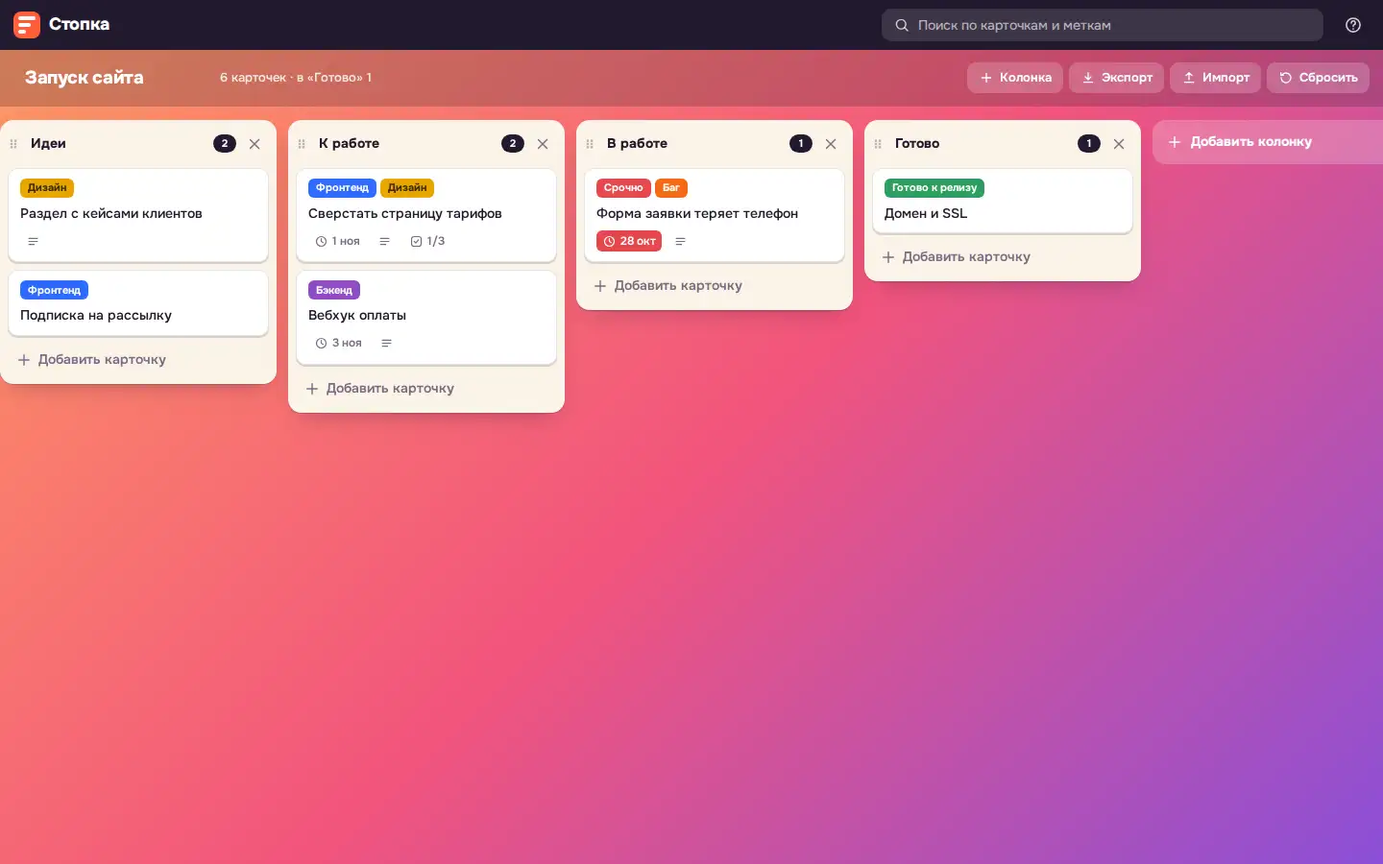
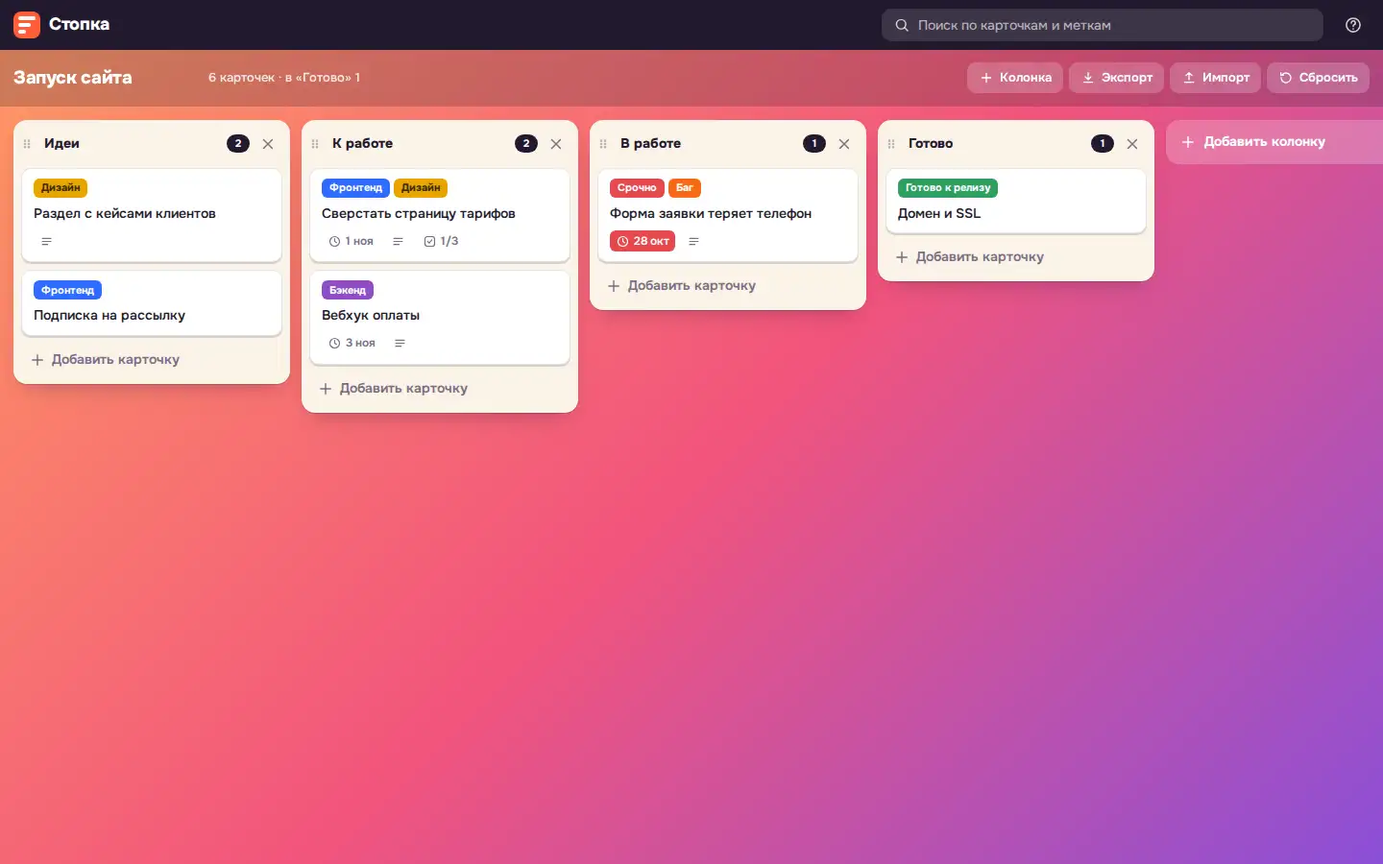
Sync demo frames from onpress.pro

diff --git a/demos/sheets/style.css b/demos/sheets/style.css
@@ -5,14 +5,14 @@ body:has(.demo-sh){margin:0;padding:0;overflow:hidden;background:#f6f7f5}
 .demo-sh,.demo-sh__menu,.demo-sh__ac,.demo-sh__toast,.demo-sh__modal{--sh-bg:#15191a;--sh-chrome:#1d2223;--sh-chrome2:#252b2c;--sh-line:#2a3133;--sh-line2:#3a4345;--sh-text:#e3e8e5;--sh-muted:#93a09a;--sh-head:#1b2021;--sh-head-text:#98a59f;--sh-accent:#2fbf84;--sh-accent-ink:#06261a;--sh-accent-soft:rgba(47,191,132,.14);--sh-accent-head:#1e3a2f;--sh-accent-head-text:#7fe0b4;--sh-err:#ff6b6b;--sh-shadow:0 1px 2px rgba(0,0,0,.4),0 16px 40px -8px rgba(0,0,0,.6);--sh-hover:rgba(227,232,229,.07);--sh-press:rgba(227,232,229,.12)}
 body:has(.demo-sh){background:#15191a}
 }
-.demo-sh{position:fixed;inset:0;z-index:2147480000;display:flex;flex-direction:column;background:var(--sh-chrome);font-size:13px;line-height:1.4;text-align:left;letter-spacing:0}
+.demo-sh{position:fixed;inset:0;margin:0;border-radius:0;overflow:hidden;z-index:2147480000;display:flex;flex-direction:column;background:var(--sh-chrome);font-size:13px;line-height:1.4;text-align:left;letter-spacing:0}
 .demo-sh *,.demo-sh *::before,.demo-sh *::after{box-sizing:border-box}
 .demo-sh svg{width:20px;height:20px;fill:currentColor;flex:none}
 .demo-sh__appbar{display:flex;align-items:center;gap:10px;height:48px;padding:0 12px 0 6px;flex:none;background:var(--sh-chrome)}
-.demo-sh__back{display:inline-flex;align-items:center;justify-content:center;width:36px;height:36px;border-radius:50%;color:var(--sh-muted);text-decoration:none;transition:background .15s,color .15s}
+.demo-sh__back{display:inline-flex;align-items:center;justify-content:center;width:36px;height:36px;border-radius:3px;color:var(--sh-muted);text-decoration:none;transition:background .15s,color .15s}
 .demo-sh__back:hover{background:var(--sh-hover);color:var(--sh-text)}
 .demo-sh__back:focus-visible{outline:2px solid var(--sh-accent);outline-offset:1px}
-.demo-sh__logo{display:inline-flex;width:30px;height:30px;border-radius:7px;background:var(--sh-accent);color:var(--sh-accent-ink);align-items:center;justify-content:center}
+.demo-sh__logo{display:inline-flex;width:30px;height:30px;border-radius:3px;background:var(--sh-accent);color:var(--sh-accent-ink);align-items:center;justify-content:center}
 .demo-sh__logo svg,.demo-sh-intro__mark svg{fill:none;stroke:currentColor;stroke-width:2;stroke-linejoin:round;width:20px;height:20px}
 .demo-sh__brand{font-size:17px;font-weight:500;color:var(--sh-text)}
 .demo-sh__tag{font-size:12px;color:var(--sh-muted);white-space:nowrap;overflow:hidden;text-overflow:ellipsis}
@@ -20,12 +20,12 @@ body:has(.demo-sh){background:#15191a}
 .demo-sh__state{position:absolute;inset:0;display:flex;flex-direction:column;align-items:center;justify-content:center;gap:14px;padding:24px;text-align:center;color:var(--sh-muted);font-size:14px;background:var(--sh-bg)}
 .demo-sh__state-text{margin:0;max-width:420px;line-height:1.5}
 .demo-sh__spinner{width:30px;height:30px;border-radius:50%;border:3px solid var(--sh-accent-soft);border-top-color:var(--sh-accent);animation:demo-sh-spin .8s linear infinite}
-.demo-sh__retry{appearance:none;border:0;border-radius:6px;padding:8px 16px;background:var(--sh-accent);color:var(--sh-accent-ink);font:500 14px var(--sh-font);cursor:pointer}
+.demo-sh__retry{appearance:none;border:0;border-radius:3px;padding:8px 16px;background:var(--sh-accent);color:var(--sh-accent-ink);font:500 14px var(--sh-font);cursor:pointer}
 @keyframes demo-sh-spin{to{transform:rotate(360deg)}}
 .demo-sh__app{position:relative;flex:1;min-height:0;display:flex;flex-direction:column}
-.demo-sh__toolbar{display:flex;align-items:center;gap:2px;height:40px;margin:0 8px 6px;padding:0 6px;border-radius:20px;background:var(--sh-chrome2);flex:none;overflow-x:auto;overflow-y:hidden;scrollbar-width:none}
+.demo-sh__toolbar{display:flex;align-items:center;gap:2px;height:40px;margin:0;padding:0 8px;border-radius:0;background:var(--sh-chrome);border-top:1px solid var(--sh-line);flex:none;overflow-x:auto;overflow-y:hidden;scrollbar-width:none}
 .demo-sh__toolbar::-webkit-scrollbar{display:none}
-.demo-sh__btn{appearance:none;position:relative;display:inline-flex;align-items:center;justify-content:center;gap:6px;min-width:30px;height:30px;padding:0 5px;border:0;border-radius:6px;background:transparent;color:var(--sh-text);font:500 13px var(--sh-font);cursor:pointer;flex:none;transition:background .12s,color .12s}
+.demo-sh__btn{appearance:none;position:relative;display:inline-flex;align-items:center;justify-content:center;gap:6px;min-width:30px;height:30px;padding:0 5px;border:0;border-radius:3px;background:transparent;color:var(--sh-text);font:500 13px var(--sh-font);cursor:pointer;flex:none;transition:background .12s,color .12s}
 .demo-sh__btn svg{width:19px;height:19px}
 .demo-sh__btn:hover{background:var(--sh-hover)}
 .demo-sh__btn:active{background:var(--sh-press)}
@@ -40,10 +40,10 @@ body:has(.demo-sh){background:#15191a}
 .demo-sh__bar{display:block;width:17px;height:4px;margin-top:-1px;border-radius:1px;border:1px solid var(--sh-line2)}
 .demo-sh__sep{width:1px;height:20px;margin:0 5px;background:var(--sh-line2);flex:none}
 .demo-sh__grow{flex:1;min-width:8px}
-.demo-sh__select{position:relative;display:inline-flex;align-items:center;height:30px;border-radius:6px;flex:none}
+.demo-sh__select{position:relative;display:inline-flex;align-items:center;height:30px;border-radius:3px;flex:none}
 .demo-sh__select:hover{background:var(--sh-hover)}
 .demo-sh__select select{appearance:none;-webkit-appearance:none;height:30px;padding:0 24px 0 8px;border:0;background:transparent;color:var(--sh-text);font:500 13px var(--sh-font);cursor:pointer;outline:none}
-.demo-sh__select select:focus-visible{outline:2px solid var(--sh-accent);border-radius:6px}
+.demo-sh__select select:focus-visible{outline:2px solid var(--sh-accent);border-radius:3px}
 .demo-sh__select select option{background:var(--sh-bg);color:var(--sh-text)}
 .demo-sh__select svg{position:absolute;right:4px;width:16px;height:16px;pointer-events:none;color:var(--sh-muted)}
 .demo-sh__fbar{display:flex;align-items:center;height:32px;flex:none;background:var(--sh-bg);border-top:1px solid var(--sh-line);border-bottom:1px solid var(--sh-line)}
@@ -54,6 +54,11 @@ body:has(.demo-sh){background:#15191a}
 .demo-sh__formula::placeholder{color:var(--sh-muted);opacity:.7}
 .demo-sh__grid{position:relative;flex:1;min-height:0;overflow:auto;background:var(--sh-bg);outline:none;overscroll-behavior:contain;-webkit-user-select:none;user-select:none;-webkit-tap-highlight-color:transparent}
 .demo-sh__grid--rz{cursor:col-resize}
+.demo-sh__grid::-webkit-scrollbar{width:12px;height:12px;background:var(--sh-chrome)}
+.demo-sh__grid::-webkit-scrollbar-thumb{background:var(--sh-line2);border:3px solid var(--sh-chrome);border-radius:0}
+.demo-sh__grid::-webkit-scrollbar-thumb:hover{background:var(--sh-muted)}
+.demo-sh__grid::-webkit-scrollbar-corner{background:var(--sh-chrome)}
+.demo-sh__grid::-webkit-scrollbar-button{display:none}
 .demo-sh__canvas{position:relative}
 .demo-sh__colhead{position:sticky;top:0;z-index:4;display:flex;height:28px}
 .demo-sh__corner{position:sticky;left:0;z-index:5;flex:none;width:52px;height:28px;background:var(--sh-head);border-right:1px solid var(--sh-line2);border-bottom:1px solid var(--sh-line2);cursor:pointer}
@@ -95,28 +100,28 @@ body:has(.demo-sh){background:#15191a}
 .demo-sh__editor--on{display:block}
 .demo-sh__app--editing .demo-sh__active{opacity:0}
 .demo-sh__tabs{display:flex;align-items:center;gap:4px;height:38px;padding:0 8px;flex:none;background:var(--sh-chrome);border-top:1px solid var(--sh-line)}
-.demo-sh__tabadd{appearance:none;display:inline-flex;align-items:center;justify-content:center;width:30px;height:30px;border:0;border-radius:50%;background:transparent;color:var(--sh-muted);cursor:pointer;flex:none}
+.demo-sh__tabadd{appearance:none;display:inline-flex;align-items:center;justify-content:center;width:30px;height:30px;border:0;border-radius:3px;background:transparent;color:var(--sh-muted);cursor:pointer;flex:none}
 .demo-sh__tabadd:hover{background:var(--sh-hover);color:var(--sh-text)}
 .demo-sh__tabadd:focus-visible{outline:2px solid var(--sh-accent)}
 .demo-sh__tablist{display:flex;align-items:flex-end;gap:2px;height:100%;min-width:0;overflow-x:auto;scrollbar-width:none}
 .demo-sh__tablist::-webkit-scrollbar{display:none}
-.demo-sh__tab{display:inline-flex;align-items:center;gap:2px;height:31px;padding:0 12px;border-radius:0 0 8px 8px;color:var(--sh-muted);font-weight:500;white-space:nowrap;cursor:pointer;flex:none;transition:background .12s,color .12s;user-select:none}
+.demo-sh__tab{display:inline-flex;align-items:center;gap:2px;height:31px;padding:0 12px;border-radius:0;color:var(--sh-muted);font-weight:500;white-space:nowrap;cursor:pointer;flex:none;transition:background .12s,color .12s;user-select:none}
 .demo-sh__tab:hover{background:var(--sh-hover);color:var(--sh-text)}
 .demo-sh__tab--on{background:var(--sh-bg);color:var(--sh-accent-head-text);box-shadow:inset 0 -3px 0 var(--sh-accent),0 1px 2px rgba(0,0,0,.08);padding-right:4px;margin-top:-1px}
 .demo-sh__tab--on:hover{background:var(--sh-bg)}
-.demo-sh__tabmore{appearance:none;display:inline-flex;align-items:center;justify-content:center;width:22px;height:22px;padding:0;border:0;border-radius:4px;background:transparent;color:inherit;cursor:pointer}
+.demo-sh__tabmore{appearance:none;display:inline-flex;align-items:center;justify-content:center;width:22px;height:22px;padding:0;border:0;border-radius:2px;background:transparent;color:inherit;cursor:pointer}
 .demo-sh__tabmore:hover{background:var(--sh-hover)}
 .demo-sh__tabmore svg{width:18px;height:18px}
-.demo-sh__tabinput{width:140px;height:24px;padding:0 6px;border:2px solid var(--sh-accent);border-radius:4px;background:var(--sh-bg);color:var(--sh-text);font:500 13px var(--sh-font);outline:none}
+.demo-sh__tabinput{width:140px;height:24px;padding:0 6px;border:2px solid var(--sh-accent);border-radius:2px;background:var(--sh-bg);color:var(--sh-text);font:500 13px var(--sh-font);outline:none}
 .demo-sh__status{display:flex;align-items:center;justify-content:space-between;gap:16px;height:26px;padding:0 14px;flex:none;background:var(--sh-chrome);border-top:1px solid var(--sh-line);color:var(--sh-muted);font-size:12px;white-space:nowrap;overflow:hidden}
 .demo-sh__info{overflow:hidden;text-overflow:ellipsis}
 .demo-sh__info--err{color:var(--sh-err)}
 .demo-sh__stats{font-variant-numeric:tabular-nums;color:var(--sh-text);white-space:pre}
 .demo-sh__drop{position:absolute;inset:0;z-index:20;display:none;align-items:center;justify-content:center;padding:24px;background:color-mix(in srgb,var(--sh-bg) 80%,transparent);backdrop-filter:blur(2px)}
-.demo-sh__drop-inner{display:flex;flex-direction:column;align-items:center;gap:10px;padding:32px 40px;border:2px dashed var(--sh-accent);border-radius:14px;color:var(--sh-accent-head-text);font-size:15px;font-weight:500;text-align:center}
+.demo-sh__drop-inner{display:flex;flex-direction:column;align-items:center;gap:10px;padding:32px 40px;border:2px dashed var(--sh-accent);border-radius:3px;color:var(--sh-accent-head-text);font-size:15px;font-weight:500;text-align:center}
 .demo-sh__drop-inner svg{width:34px;height:34px}
 .demo-sh__app--drop .demo-sh__drop{display:flex}
-.demo-sh__menu{position:fixed;z-index:2147481000;min-width:220px;max-width:min(320px,calc(100vw - 16px));max-height:calc(100vh - 16px);overflow:auto;padding:6px 0;border-radius:8px;background:var(--sh-bg);color:var(--sh-text);box-shadow:var(--sh-shadow);border:1px solid var(--sh-line);font-family:var(--sh-font);font-size:13px;opacity:0;transform:translateY(-4px) scale(.98);transform-origin:top left;transition:opacity .12s ease-out,transform .12s ease-out}
+.demo-sh__menu{position:fixed;z-index:2147481000;min-width:220px;max-width:min(320px,calc(100vw - 16px));max-height:calc(100vh - 16px);overflow:auto;padding:6px 0;border-radius:3px;background:var(--sh-bg);color:var(--sh-text);box-shadow:var(--sh-shadow);border:1px solid var(--sh-line);font-family:var(--sh-font);font-size:13px;opacity:0;transform:translateY(-4px) scale(.98);transform-origin:top left;transition:opacity .12s ease-out,transform .12s ease-out}
 .demo-sh__menu--in{opacity:1;transform:none}
 .demo-sh__mi{appearance:none;display:flex;align-items:center;justify-content:space-between;gap:20px;width:100%;min-height:32px;padding:6px 16px;border:0;background:transparent;color:inherit;font:inherit;text-align:left;cursor:pointer}
 .demo-sh__mi:hover,.demo-sh__mi:focus-visible{background:var(--sh-hover);outline:none}
@@ -125,27 +130,27 @@ body:has(.demo-sh){background:#15191a}
 .demo-sh__mi--danger{color:var(--sh-err)}
 .demo-sh__mi-sep{height:1px;margin:5px 0;background:var(--sh-line)}
 .demo-sh__pal{display:grid;grid-template-columns:repeat(9,24px);gap:6px;padding:8px 14px 6px}
-.demo-sh__sw{appearance:none;width:24px;height:24px;padding:0;border:0;border-radius:50%;background:var(--sw);cursor:pointer;transition:transform .1s}
+.demo-sh__sw{appearance:none;width:24px;height:24px;padding:0;border:0;border-radius:2px;background:var(--sw);cursor:pointer;transition:transform .1s}
 .demo-sh__sw--fill{background:color-mix(in srgb,var(--sw) 28%,var(--sh-bg));box-shadow:inset 0 0 0 1.5px var(--sw)}
 .demo-sh__sw:hover{transform:scale(1.15)}
 .demo-sh__sw:focus-visible{outline:2px solid var(--sh-text);outline-offset:2px}
-.demo-sh__ac{position:fixed;z-index:2147481000;width:340px;max-width:calc(100vw - 16px);padding:4px 0;border-radius:8px;background:var(--sh-bg);color:var(--sh-text);border:1px solid var(--sh-line);box-shadow:var(--sh-shadow);font-family:var(--sh-font);font-size:13px}
+.demo-sh__ac{position:fixed;z-index:2147481000;width:340px;max-width:calc(100vw - 16px);padding:4px 0;border-radius:3px;background:var(--sh-bg);color:var(--sh-text);border:1px solid var(--sh-line);box-shadow:var(--sh-shadow);font-family:var(--sh-font);font-size:13px}
 .demo-sh__aci{display:grid;grid-template-columns:auto 1fr;column-gap:8px;padding:5px 12px;cursor:pointer}
 .demo-sh__aci b{font:600 13px var(--sh-mono)}
 .demo-sh__acru{justify-self:end;color:var(--sh-muted);font-size:11px}
 .demo-sh__aci small{grid-column:1/-1;color:var(--sh-muted);font-size:12px}
 .demo-sh__aci--on{background:var(--sh-accent-soft)}
 .demo-sh__acsig{margin-top:4px;padding:6px 12px 4px;border-top:1px solid var(--sh-line);color:var(--sh-muted);font:12px var(--sh-mono)}
-.demo-sh__toast{position:fixed;left:50%;bottom:44px;z-index:2147481500;max-width:calc(100vw - 32px);padding:10px 16px;border-radius:6px;background:#1d2420;color:#f1f5f2;font:500 13px var(--sh-font);box-shadow:var(--sh-shadow);transform:translate(-50%,12px);opacity:0;pointer-events:none;transition:opacity .18s,transform .18s}
+.demo-sh__toast{position:fixed;left:50%;bottom:44px;z-index:2147481500;max-width:calc(100vw - 32px);padding:10px 16px;border-radius:3px;background:#1d2420;color:#f1f5f2;font:500 13px var(--sh-font);box-shadow:var(--sh-shadow);transform:translate(-50%,12px);opacity:0;pointer-events:none;transition:opacity .18s,transform .18s}
 .demo-sh__toast--on{opacity:1;transform:translate(-50%,0)}
 .demo-sh__modal{position:fixed;inset:0;z-index:2147481200;display:flex;align-items:center;justify-content:center;padding:16px;background:rgba(10,16,13,.45);opacity:0;transition:opacity .16s}
 .demo-sh__modal--in{opacity:1}
-.demo-sh__dialog{width:min(480px,100%);max-height:calc(100vh - 32px);overflow:auto;padding:22px 24px 18px;border-radius:10px;background:var(--sh-bg);color:var(--sh-text);box-shadow:var(--sh-shadow);font-family:var(--sh-font);font-size:14px;line-height:1.5;transform:translateY(8px) scale(.98);transition:transform .16s ease-out}
+.demo-sh__dialog{width:min(480px,100%);max-height:calc(100vh - 32px);overflow:auto;padding:22px 24px 18px;border-radius:3px;background:var(--sh-bg);color:var(--sh-text);box-shadow:var(--sh-shadow);font-family:var(--sh-font);font-size:14px;line-height:1.5;transform:translateY(8px) scale(.98);transition:transform .16s ease-out}
 .demo-sh__modal--in .demo-sh__dialog{transform:none}
 .demo-sh__dtitle{margin:0 0 10px;font-size:18px;font-weight:600;line-height:1.3}
 .demo-sh__dbody p{margin:0 0 10px;color:var(--sh-muted)}
 .demo-sh__dbtns{display:flex;flex-wrap:wrap;justify-content:flex-end;gap:8px;margin-top:16px}
-.demo-sh__dbtn{appearance:none;height:36px;padding:0 16px;border:1px solid var(--sh-line2);border-radius:6px;background:transparent;color:var(--sh-text);font:500 14px var(--sh-font);cursor:pointer}
+.demo-sh__dbtn{appearance:none;height:36px;padding:0 16px;border:1px solid var(--sh-line2);border-radius:3px;background:transparent;color:var(--sh-text);font:500 14px var(--sh-font);cursor:pointer}
 .demo-sh__dbtn:hover{background:var(--sh-hover)}
 .demo-sh__dbtn:focus-visible{outline:2px solid var(--sh-accent);outline-offset:2px}
 .demo-sh__dbtn--primary{background:var(--sh-accent);border-color:var(--sh-accent);color:var(--sh-accent-ink)}
@@ -155,20 +160,20 @@ body:has(.demo-sh){background:#15191a}
 .demo-sh__keys{width:100%;margin:0 0 12px;border-collapse:collapse;font-size:13px}
 .demo-sh__keys td{padding:5px 0;border-bottom:1px solid var(--sh-line);vertical-align:top}
 .demo-sh__keys td:first-child{width:44%;padding-right:12px}
-.demo-sh__keys kbd{display:inline-block;padding:1px 6px;border:1px solid var(--sh-line2);border-bottom-width:2px;border-radius:4px;background:var(--sh-chrome);font:12px var(--sh-mono);color:var(--sh-text)}
+.demo-sh__keys kbd{display:inline-block;padding:1px 6px;border:1px solid var(--sh-line2);border-bottom-width:2px;border-radius:2px;background:var(--sh-chrome);font:12px var(--sh-mono);color:var(--sh-text)}
 .demo-sh-intro{position:fixed;inset:0;z-index:2147482000;display:flex;align-items:center;justify-content:center;padding:16px;background:rgba(10,16,13,.5);backdrop-filter:blur(3px);opacity:0;pointer-events:none;transition:opacity .2s}
 .demo-sh-intro--on{opacity:1;pointer-events:auto}
 .demo-sh-intro[hidden]{display:none}
-.demo-sh-intro__card{width:min(520px,100%);max-height:calc(100vh - 32px);overflow:auto;padding:28px 28px 22px;border-radius:12px;background:var(--sh-bg);color:var(--sh-text);box-shadow:var(--sh-shadow);border-top:4px solid var(--sh-accent);transform:translateY(10px);transition:transform .22s ease-out}
+.demo-sh-intro__card{width:min(520px,100%);max-height:calc(100vh - 32px);overflow:auto;padding:28px 28px 22px;border-radius:3px;background:var(--sh-bg);color:var(--sh-text);box-shadow:var(--sh-shadow);border-top:4px solid var(--sh-accent);transform:translateY(10px);transition:transform .22s ease-out}
 .demo-sh-intro--on .demo-sh-intro__card{transform:none}
-.demo-sh-intro__mark{display:inline-flex;width:42px;height:42px;margin-bottom:14px;border-radius:10px;background:var(--sh-accent);color:var(--sh-accent-ink);align-items:center;justify-content:center}
+.demo-sh-intro__mark{display:inline-flex;width:42px;height:42px;margin-bottom:14px;border-radius:3px;background:var(--sh-accent);color:var(--sh-accent-ink);align-items:center;justify-content:center}
 .demo-sh-intro__mark svg{width:26px;height:26px}
 .demo-sh-intro__title{margin:0 0 10px;font:600 26px/1.2 var(--sh-font);letter-spacing:-.01em;color:var(--sh-text)}
 .demo-sh-intro__text{color:var(--sh-muted);font-size:15px;line-height:1.55}
 .demo-sh-intro__text p{margin:0 0 10px}
 .demo-sh-intro__text h1,.demo-sh-intro__text h2{display:none}
 .demo-sh-intro__actions{display:flex;justify-content:flex-end;gap:10px;margin-top:20px}
-.demo-sh-intro__btn{appearance:none;display:inline-flex;align-items:center;justify-content:center;height:40px;padding:0 22px;border:1px solid var(--sh-accent);border-radius:6px;background:var(--sh-accent);color:var(--sh-accent-ink);font:500 15px var(--sh-font);text-decoration:none;cursor:pointer;transition:filter .12s,background .12s}
+.demo-sh-intro__btn{appearance:none;display:inline-flex;align-items:center;justify-content:center;height:40px;padding:0 22px;border:1px solid var(--sh-accent);border-radius:3px;background:var(--sh-accent);color:var(--sh-accent-ink);font:500 15px var(--sh-font);text-decoration:none;cursor:pointer;transition:filter .12s,background .12s}
 .demo-sh-intro__btn:hover{filter:brightness(1.08)}
 .demo-sh-intro__btn:focus-visible{outline:2px solid var(--sh-accent);outline-offset:3px}
 .demo-sh-intro__btn--ghost{background:transparent;color:var(--sh-text);border-color:var(--sh-line2)}
@@ -176,7 +181,7 @@ body:has(.demo-sh){background:#15191a}
 @media (max-width:640px){
 .demo-sh__tag{display:none}
 .demo-sh__appbar{height:44px}
-.demo-sh__toolbar{margin:0 6px 6px;border-radius:10px}
+.demo-sh__toolbar{padding:0 4px}
 .demo-sh__btn--label span{display:none}
 .demo-sh__btn--label{padding:0 5px}
 .demo-sh__grow{display:none}

diff --git a/demos/kanban/style.css b/demos/kanban/style.css
@@ -1,5 +1,5 @@
 html.stk-lock,html.stk-lock body{overflow:hidden;overscroll-behavior:none}
-.stk{--ink:#221a2e;--ink-2:#3a2f4a;--paper:#fff8ef;--list:#fbf3e8;--card:#fff;--text:#221a2e;--muted:#7a6d86;--line:rgba(34,26,46,.12);--hard:0 2px 0 rgba(34,26,46,.16);--accent:#ff5c39;--accent-ink:#fff;--focus:#2f6bff;--danger:#d92d20;--board:linear-gradient(135deg,#ff9a62 0%,#f2547d 52%,#8b4fd8 100%);--scrim:rgba(34,26,46,.5);position:fixed;inset:0;z-index:2147483000;display:flex;flex-direction:column;background:var(--board);color:var(--text);font-family:"Onest Variable",Onest,ui-sans-serif,system-ui,-apple-system,"Segoe UI",sans-serif;font-size:14px;line-height:1.4;font-weight:450;letter-spacing:0;-webkit-font-smoothing:antialiased;text-align:left}
+.stk{--ink:#221a2e;--ink-2:#3a2f4a;--paper:#fff8ef;--list:#fbf3e8;--card:#fff;--text:#221a2e;--muted:#7a6d86;--line:rgba(34,26,46,.12);--hard:0 2px 0 rgba(34,26,46,.16);--accent:#ff5c39;--accent-ink:#fff;--focus:#2f6bff;--danger:#d92d20;--board:linear-gradient(135deg,#ff9a62 0%,#f2547d 52%,#8b4fd8 100%);--scrim:rgba(34,26,46,.5);--pad:14px;position:fixed;inset:0;z-index:2147483000;display:flex;flex-direction:column;background:var(--board);color:var(--text);font-family:"Onest Variable",Onest,ui-sans-serif,system-ui,-apple-system,"Segoe UI",sans-serif;font-size:14px;line-height:1.4;font-weight:450;letter-spacing:0;-webkit-font-smoothing:antialiased;text-align:left}
 :where(.stk) *,:where(.stk) *::before,:where(.stk) *::after{box-sizing:border-box;font-family:inherit;letter-spacing:inherit}
 :where(.stk) :where(button,input,select,textarea){font:inherit;color:inherit;margin:0}
 :where(.stk) button{cursor:pointer;-webkit-tap-highlight-color:transparent}
@@ -9,7 +9,7 @@ html.stk-lock,html.stk-lock body{overflow:hidden;overscroll-behavior:none}
 .stk__loading{margin:auto;padding:24px;color:#fff;font-size:16px;font-weight:600;text-align:center;text-shadow:0 1px 2px rgba(0,0,0,.2)}
 .stk__ico{display:inline-flex;flex:none;width:18px;height:18px}
 .stk__ico svg{width:100%;height:100%;display:block}
-.stk__top{flex:none;display:flex;align-items:center;gap:14px;height:52px;padding:0 14px;background:var(--ink);color:#fff}
+.stk__top{flex:none;display:flex;align-items:center;gap:14px;height:52px;padding:0 var(--pad);background:var(--ink);color:#fff}
 .stk__brand{display:flex;align-items:center;gap:9px;flex:none}
 .stk__mark{display:inline-flex;flex-direction:column;justify-content:center;gap:3px;width:28px;height:28px;padding:0 5px;border-radius:8px;background:var(--accent)}
 .stk__mark i{display:block;height:4px;border-radius:2px;background:#fff}
@@ -27,8 +27,8 @@ html.stk-lock,html.stk-lock body{overflow:hidden;overscroll-behavior:none}
 .stk__icon--top{width:34px;height:34px;color:rgba(255,255,255,.8)}
 .stk__icon--top:hover{background:rgba(255,255,255,.14);color:#fff}
 .stk__icon--top .stk__ico{width:20px;height:20px}
-.stk__sub{flex:none;display:flex;align-items:center;flex-wrap:wrap;gap:10px;padding:10px 14px;background:rgba(34,26,46,.22);color:#fff;backdrop-filter:blur(6px)}
-.stk__board-title{max-width:100%;padding:4px 10px;border:2px solid transparent;border-radius:9px;background:transparent;color:#fff;font-size:19px;font-weight:800;letter-spacing:-.02em;outline:none}
+.stk__sub{flex:none;display:flex;align-items:center;flex-wrap:wrap;gap:10px;padding:10px var(--pad);background:rgba(34,26,46,.22);color:#fff;backdrop-filter:blur(6px)}
+.stk__board-title{max-width:100%;margin-left:-12px;padding:4px 10px;border:2px solid transparent;border-radius:9px;background:transparent;color:#fff;font-size:19px;font-weight:800;letter-spacing:-.02em;outline:none}
 .stk__board-title:hover{background:rgba(255,255,255,.16)}
 .stk__board-title:focus{background:#fff;color:var(--text);border-color:var(--focus)}
 .stk__stat{font-size:13px;font-weight:550;opacity:.85;white-space:nowrap}
@@ -37,7 +37,7 @@ html.stk-lock,html.stk-lock body{overflow:hidden;overscroll-behavior:none}
 .stk__chip-btn:hover{background:rgba(255,255,255,.32)}
 .stk__chip-btn:active{transform:translateY(1px)}
 .stk__chip-btn .stk__ico{width:16px;height:16px}
-.stk__board{flex:1;min-height:0;display:flex;align-items:flex-start;gap:12px;padding:14px;overflow-x:auto;overflow-y:hidden;scroll-snap-type:x proximity;scrollbar-color:rgba(255,255,255,.45) transparent}
+.stk__board{flex:1;min-height:0;display:flex;align-items:flex-start;gap:12px;padding:var(--pad);overflow-x:auto;overflow-y:hidden;scroll-snap-type:x proximity;scroll-padding-inline:var(--pad);scrollbar-color:rgba(255,255,255,.45) transparent}
 .stk__col{flex:0 0 288px;display:flex;flex-direction:column;max-height:100%;border-radius:14px;background:var(--list);box-shadow:0 1px 0 rgba(34,26,46,.18),0 10px 24px -14px rgba(34,26,46,.5);scroll-snap-align:start}
 .stk__board--enter .stk__col{animation:stk-in .32s cubic-bezier(.2,.8,.2,1) both;animation-delay:calc(var(--i,0)*40ms)}
 .stk__col--new{animation:stk-in .32s cubic-bezier(.2,.8,.2,1) both}
@@ -157,5 +157,5 @@ html.stk-lock,html.stk-lock body{overflow:hidden;overscroll-behavior:none}
 @keyframes stk-fade{from{opacity:0}}
 @keyframes stk-fade-out{to{opacity:0}}
 @media (prefers-color-scheme:dark){.stk{--ink:#0f0b16;--ink-2:#cfc3dc;--paper:#211a2c;--list:#191322;--card:#2a2236;--text:#f1eaf7;--muted:#a597b3;--line:rgba(255,255,255,.1);--hard:0 2px 0 rgba(0,0,0,.45);--accent:#ff6a48;--focus:#6d94ff;--danger:#ff6b5e;--board:linear-gradient(135deg,#4a1f2d 0%,#3b1640 50%,#1d1840 100%);--scrim:rgba(5,3,9,.65);color-scheme:dark}.stk__modal,.stk-intro__card{border-color:#000;box-shadow:6px 6px 0 #000}.stk-intro__card{box-shadow:8px 8px 0 #000}.stk-intro__open,.stk-intro__back,.stk__pick[aria-pressed=true]{border-color:#000;box-shadow:3px 3px 0 #000}.stk__pick[aria-pressed=true]{border-color:#fff}.stk-intro__mark{box-shadow:3px 3px 0 #000}.stk__col-count{background:var(--accent)}.stk__btn--primary{border-color:var(--accent);background:var(--accent)}.stk__btn--primary:hover{background:#ff8466}.stk__card:hover{border-color:rgba(255,255,255,.2);box-shadow:0 3px 0 rgba(0,0,0,.5)}.stk__card--ghost{background:rgba(255,255,255,.06);border-color:rgba(255,255,255,.2)}.stk__check-label input{accent-color:var(--accent)}.stk__modal-title:hover,.stk__check:hover{background:rgba(255,255,255,.04)}.stk__badge--today{background:#5a4300;color:#ffd666}}
-@media (max-width:720px){.stk__top{gap:8px;height:50px;padding:0 10px}.stk__brand-name{display:none}.stk__search{max-width:none}.stk__sub{gap:8px;padding:8px 10px}.stk__board-title{font-size:17px;padding:3px 6px}.stk__stat{display:none}.stk__sub-actions{width:100%;margin-left:0;flex-wrap:nowrap;overflow-x:auto;scrollbar-width:none}.stk__chip-btn{flex:none}.stk__board{padding:10px;gap:10px;scroll-snap-type:x mandatory;scroll-padding:10px}.stk__col,.stk__col-add{flex-basis:calc(100vw - 44px)}.stk__modal{width:100vw;max-width:100vw;max-height:92dvh;margin:auto 0 0;border-radius:18px 18px 0 0;border-width:2px 0 0;box-shadow:none}.stk__modal-box{padding:18px 16px calc(16px + env(safe-area-inset-bottom))}.stk-intro__card{padding:22px 20px 16px}.stk-intro__text h1{font-size:26px}.stk-intro__hint{display:none}}
+@media (max-width:720px){.stk{--pad:10px}.stk__top{gap:8px;height:50px}.stk__brand-name{display:none}.stk__search{max-width:none}.stk__sub{gap:8px;padding-block:8px}.stk__board-title{font-size:17px;margin-left:-8px;padding:3px 6px}.stk__stat{display:none}.stk__sub-actions{width:100%;margin-left:0;flex-wrap:nowrap;overflow-x:auto;scrollbar-width:none}.stk__chip-btn{flex:none}.stk__board{gap:10px;scroll-snap-type:x mandatory}.stk__col,.stk__col-add{flex-basis:calc(100vw - 44px)}.stk__modal{width:100vw;max-width:100vw;max-height:92dvh;margin:auto 0 0;border-radius:18px 18px 0 0;border-width:2px 0 0;box-shadow:none}.stk__modal-box{padding:18px 16px calc(16px + env(safe-area-inset-bottom))}.stk-intro__card{padding:22px 20px 16px}.stk-intro__text h1{font-size:26px}.stk-intro__hint{display:none}}
 @media (prefers-reduced-motion:reduce){.stk *,.stk *::before,.stk *::after{animation-duration:.01ms!important;transition-duration:.01ms!important}}
